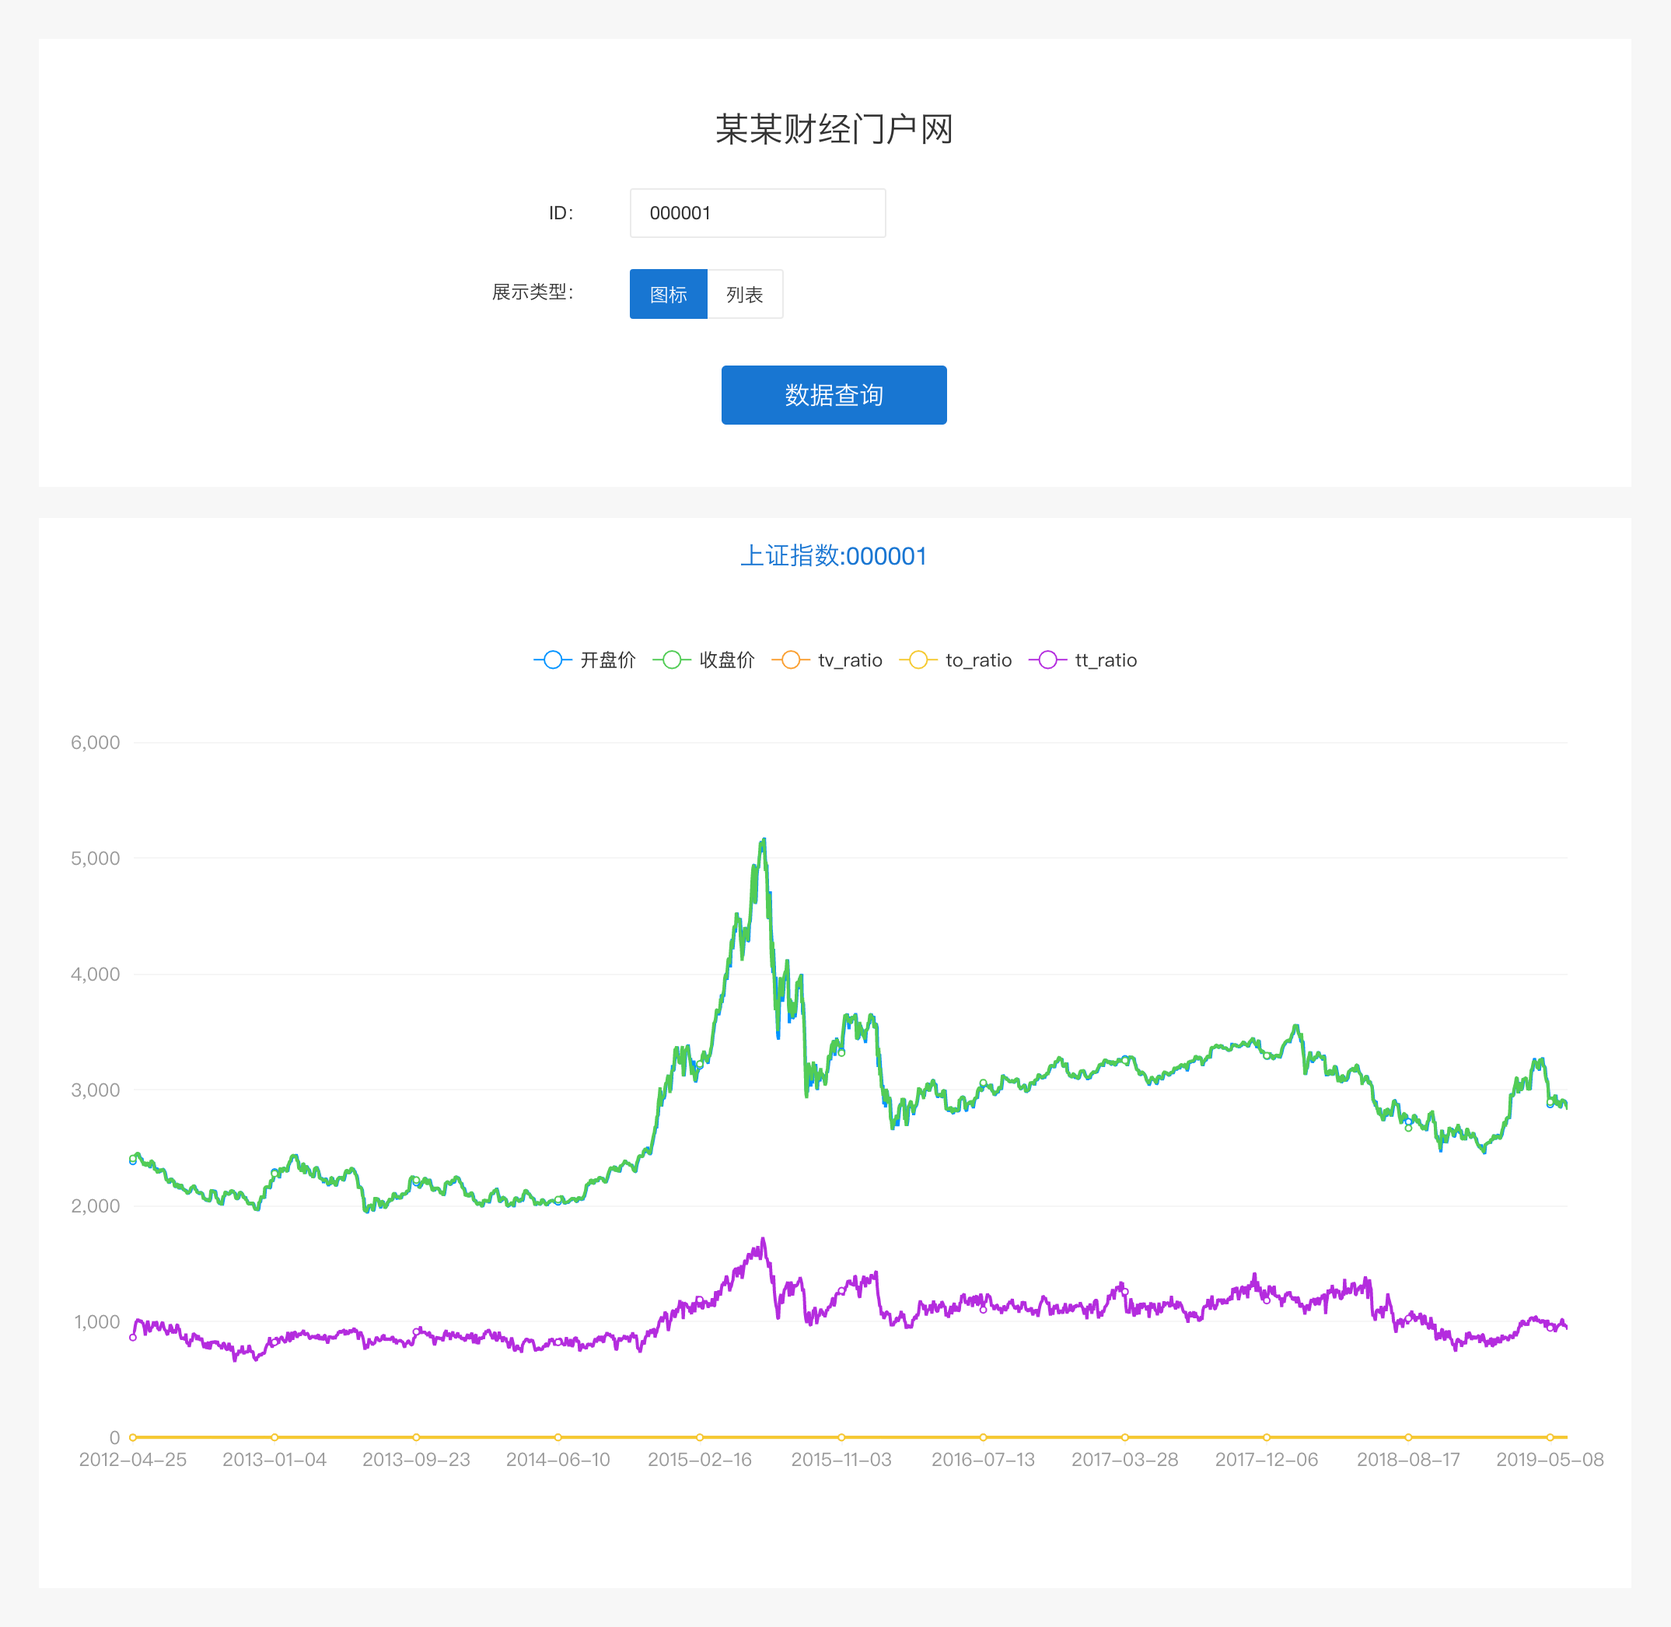
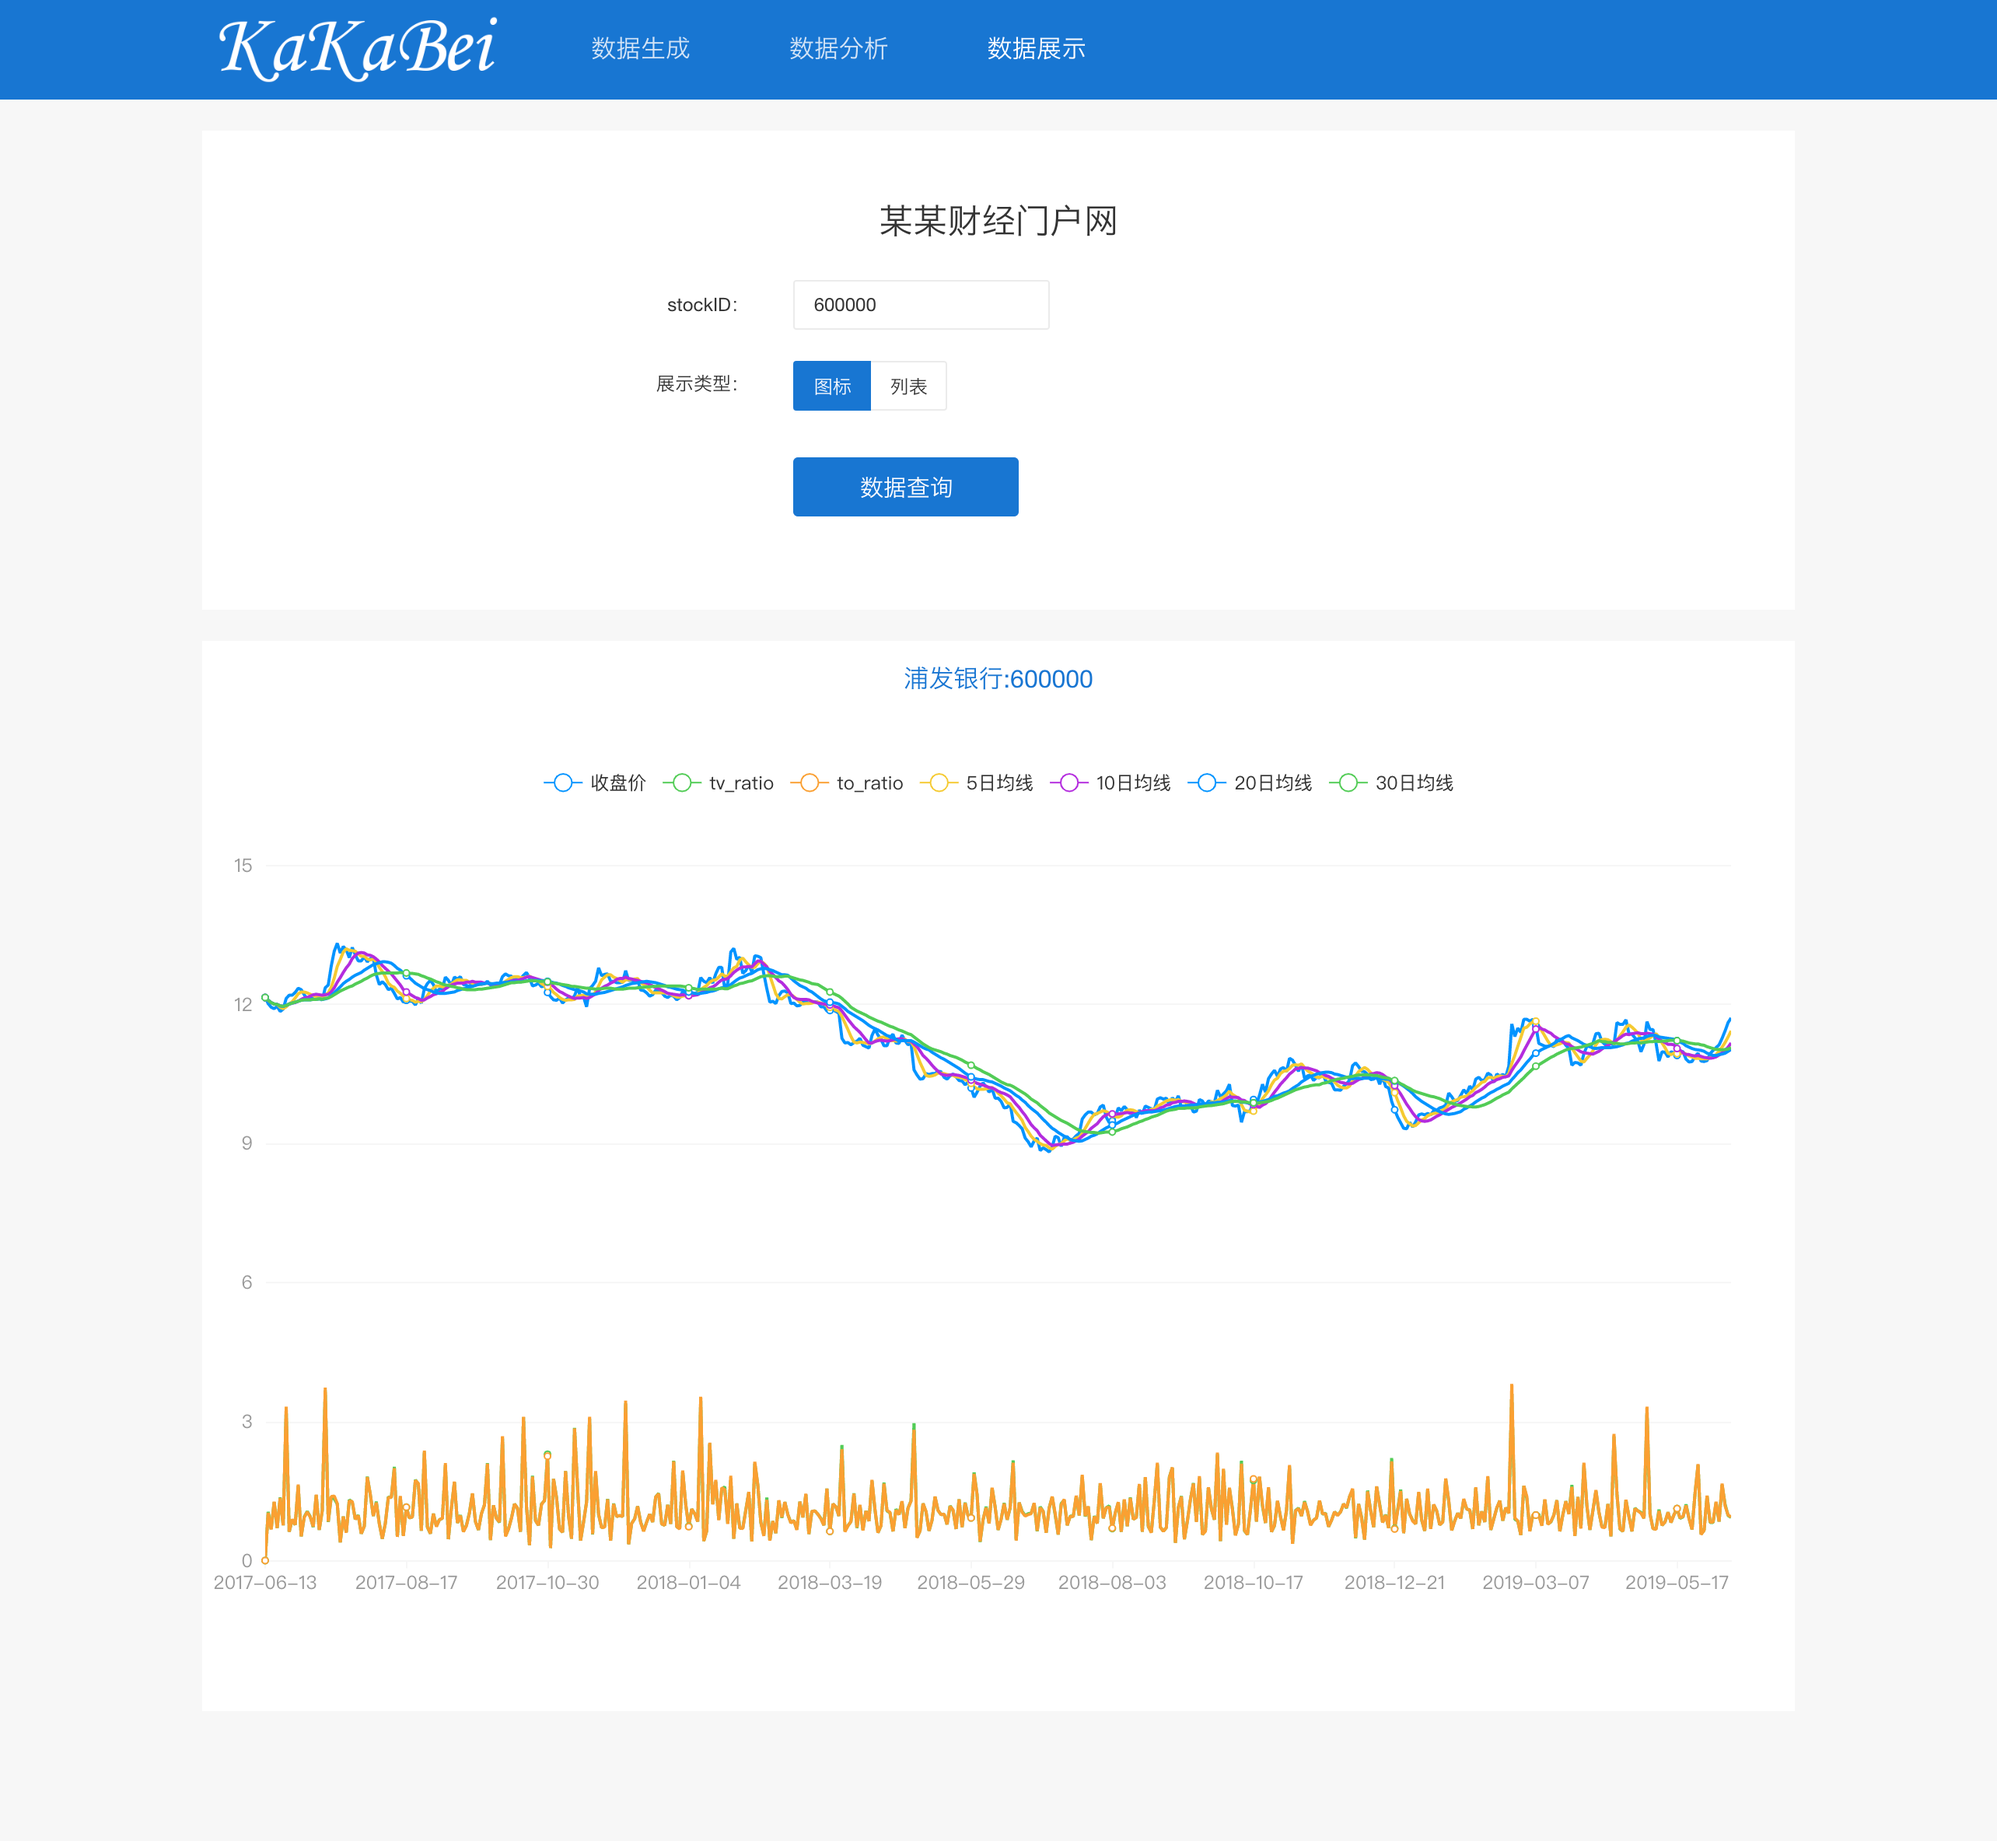
数据展示字段调整

diff --git a/resources/js/components/Form.vue b/resources/js/components/Form.vue
@@ -11,8 +11,11 @@
       <input type="date" name="start_date" class="form-control" placeholder="开始时间" v-model="params.start_date" />-
       <input type="date" name="end_date" class="form-control" placeholder="结束时间" v-model="params.end_date" />
     </div>
-    <button class="btn btn-primary" @click.stop.prevent="createDB">数据库生成</button>
-    <button name="method" class="btn btn-primary" @click.stop.prevent="updateDB">数据库更新</button>
+    <div class="form-group">
+      <label class="form-title">&nbsp;</label>
+      <button class="btn btn-primary" @click.stop.prevent="createDB">数据库生成</button>
+      <button name="method" class="btn btn-primary" @click.stop.prevent="updateDB">数据库更新</button>
+    </div>
   </form>
 </template>
 
@@ -36,9 +39,15 @@ export default({
         params: this.params
       }).then((res) => {
         if (res.code !== 500) {
-          alert('数据库生成成功');
+          this.$message({
+            message: '数据库生成成功',
+            type: 'success'
+          });
         } else {
-          alert(res.message);
+          this.$message({
+            message: res.message,
+            type: 'error'
+          });
         }
       })
     },
@@ -48,9 +57,15 @@ export default({
         params: this.params
       }).then((res) => {
         if (res.code !== 500) {
-          alert('数据库更新成功');
+          this.$message({
+            message: '数据库更新成功',
+            type: 'success'
+          });
         } else {
-          alert(res.message);
+          this.$message({
+            message: res.message,
+            type: 'error'
+          });
         }
       })
     }

diff --git a/resources/js/components/East.vue b/resources/js/components/East.vue
@@ -5,8 +5,11 @@
       <label class="form-title">数据处理：</label>
       <input type="number" name="thresh" class="form-control" placeholder="post参数" v-model="params.thresh" />
     </div>
-    <button class="btn btn-primary" @click.stop.prevent="calcDB">数据计算</button>
-    <button class="btn btn-primary" @click.stop.prevent="filterDB">数据过滤</button>
+    <div class="form-group">
+      <label class="form-title">&nbsp;</label>
+      <button class="btn btn-primary" @click.stop.prevent="calcDB">数据计算</button>
+      <button class="btn btn-primary" @click.stop.prevent="filterDB">数据过滤</button>
+    </div>
   </form>
 </template>
 
@@ -26,9 +29,15 @@ export default({
         type: 'toCalcDB'
       }).then((res) => {
         if (res.code !== 500) {
-          alert('数据计算成功');
+          this.$message({
+            message: '数据计算成功',
+            type: 'success'
+          });
         } else {
-          alert(res.message);
+          this.$message({
+            message: res.message,
+            type: 'error'
+          });
         }
       })
     },
@@ -41,9 +50,15 @@ export default({
         params: this.params
       }).then((res) => {
         if (res.code !== 500) {
-          alert('数据过滤成功');
+          this.$message({
+            message: '数据过滤成功',
+            type: 'success'
+          });
         } else {
-          alert(res.message);
+          this.$message({
+            message: res.message,
+            type: 'error'
+          });
         }
       })
     }

diff --git a/resources/js/components/Table.vue b/resources/js/components/Table.vue
@@ -2,13 +2,15 @@
   <div class="table-list">
     <el-table :data="data" @sort-change="sortChange">
       <el-table-column prop="date" label="日期" sortable></el-table-column>
-      <el-table-column prop="sprice" label="开盘价"></el-table-column>
       <el-table-column prop="eprice" label="收盘价"></el-table-column>
       <el-table-column prop="trade_vol" label="成交量" width="120"></el-table-column>
       <el-table-column prop="turnover" label="成交额" width="150"></el-table-column>
-      <el-table-column class-name="primary" prop="tv_ratio" label="tv_ratio" sortable></el-table-column>
-      <el-table-column class-name="primary" prop="to_ratio" label="to_ratio" sortable></el-table-column>
-      <el-table-column class-name="primary" prop="tt_ratio" label="tt_ratio" sortable></el-table-column>
+      <el-table-column class-name="gray" prop="tv_ratio" label="tv_ratio" sortable></el-table-column>
+      <el-table-column class-name="gray" prop="to_ratio" label="to_ratio" sortable></el-table-column>
+      <el-table-column class-name="primary" prop="avg5" label="5日均线" sortable></el-table-column>
+      <el-table-column class-name="primary" prop="avg10" label="10日均线" sortable></el-table-column>
+      <el-table-column class-name="primary" prop="avg20" label="20日均线" sortable></el-table-column>
+      <el-table-column class-name="primary" prop="avg30" label="30日均线" sortable></el-table-column>
     </el-table>
   </div>
 </template>

diff --git a/resources/js/components/Search.vue b/resources/js/components/Search.vue
@@ -3,7 +3,7 @@
     <form class="form-search">
       <h2 class="page-title">某某财经门户网</h2>
       <div class="form-group">
-        <label class="form-title">ID：</label>
+        <label class="form-title">stockID：</label>
         <input type="number" name="thresh" class="form-control" placeholder="查询id" v-model="params.stock_id" />
       </div>
       <div class="form-group">
@@ -13,7 +13,10 @@
           <el-radio-button label="table">列表</el-radio-button>
         </el-radio-group>
       </div>
-      <button class="btn btn-primary" @click.stop.prevent="searchDB">数据查询</button>
+      <div class="form-group">
+        <label class="form-title">&nbsp;</label>
+        <button class="btn btn-primary" @click.stop.prevent="searchDB">数据查询</button>
+      </div>
     </form>
     <div class="form-result" v-if="loaded">
       <div class="form-chart" v-if="type === 'echart'">
@@ -107,7 +110,7 @@ export default({
       this.pageDB()
     },
     changeRadio () {
-      this.searchDB()
+      this.loaded = false
     },
     sortBy (data) {
       this.params.prop = data.prop

diff --git a/resources/js/store/search.js b/resources/js/store/search.js
@@ -17,10 +17,16 @@ export default {
           if (res.code === 200) {
             commit('SET_SEARCH_DB', res.data);
           } else {
-            alert(res.message);
+            window.ddVue.$message({
+              message: res.message,
+              type: 'error'
+            });
           }
         }, err => {
-          alert('接口访问错误');
+          window.ddVue.$message({
+            message: '接口访问错误',
+            type: 'error'
+          });
         });
     },
     toPageDB ({commit}, {params}) {
@@ -29,10 +35,16 @@ export default {
           if (res.code === 200) {
             commit('SET_PADE_DB', res.data);
           } else {
-            alert(res.message);
+            window.ddVue.$message({
+              message: res.message,
+              type: 'error'
+            });
           }
         }, err => {
-          alert('接口访问错误');
+          window.ddVue.$message({
+            message: '接口访问错误',
+            type: 'error'
+          });
         });
     }
   }

diff --git a/resources/sass/app.scss b/resources/sass/app.scss
@@ -66,6 +66,9 @@ $primary: #1976d2;
 .primary {
   color: $primary;
 }
+.gray {
+  color: #999;
+}
 .center {
   text-align: center!important;
 }
@@ -77,7 +80,7 @@ $primary: #1976d2;
 .btn {
   height: 38px;
   border-radius: 3px;
-  font-size: 16px;
+  font-size: 15px;
 }
 .btn-primary {
   background-color: $primary;
@@ -132,7 +135,7 @@ $primary: #1976d2;
   }
   .btn-primary {
     width: 145px;
-    margin: 10px;
+    margin: 10px 20px 10px 5px;
   }
 }
 

diff --git a/resources/js/components/Chart.vue b/resources/js/components/Chart.vue
@@ -19,7 +19,7 @@ export default {
   props: ['data'],
   data () {
     return {
-      view: ['sprice', 'eprice', 'tv_ratio', 'to_ratio', 'tt_ratio'],
+      view: ['eprice', 'tv_ratio', 'to_ratio', 'avg5', 'avg10', 'avg20', 'avg30'],
       stockSetting: stockSetting,
       params: {}
     }

diff --git a/resources/js/config/setting.js b/resources/js/config/setting.js
@@ -4,5 +4,9 @@ export const stockSetting = {
   sprice: '开盘价',
   eprice: '收盘价',
   trade_vol: '成交量',
-  turnover: '成交额'
+  turnover: '成交额',
+  avg5: '5日均线',
+  avg10: '10日均线',
+  avg20: '20日均线',
+  avg30: '30日均线',
 }

diff --git a/resources/sass/east.scss b/resources/sass/east.scss
@@ -1,7 +1,9 @@
 .form-east {
-  width: 520px;
   padding: 30px 0;
-  margin: 130px auto 50px;
+  margin: 20px auto 50px;
   text-align: center;
   background-color: #fff;
+  .form-control {
+    width: 320px;
+  }
 }

diff --git a/resources/sass/form.scss b/resources/sass/form.scss
@@ -1,7 +1,6 @@
 .form-content {
-  width: 520px;
   padding: 30px 0;
-  margin: 130px auto 50px;
+  margin: 20px auto 50px;
   text-align: center;
   background-color: #fff;
 }
